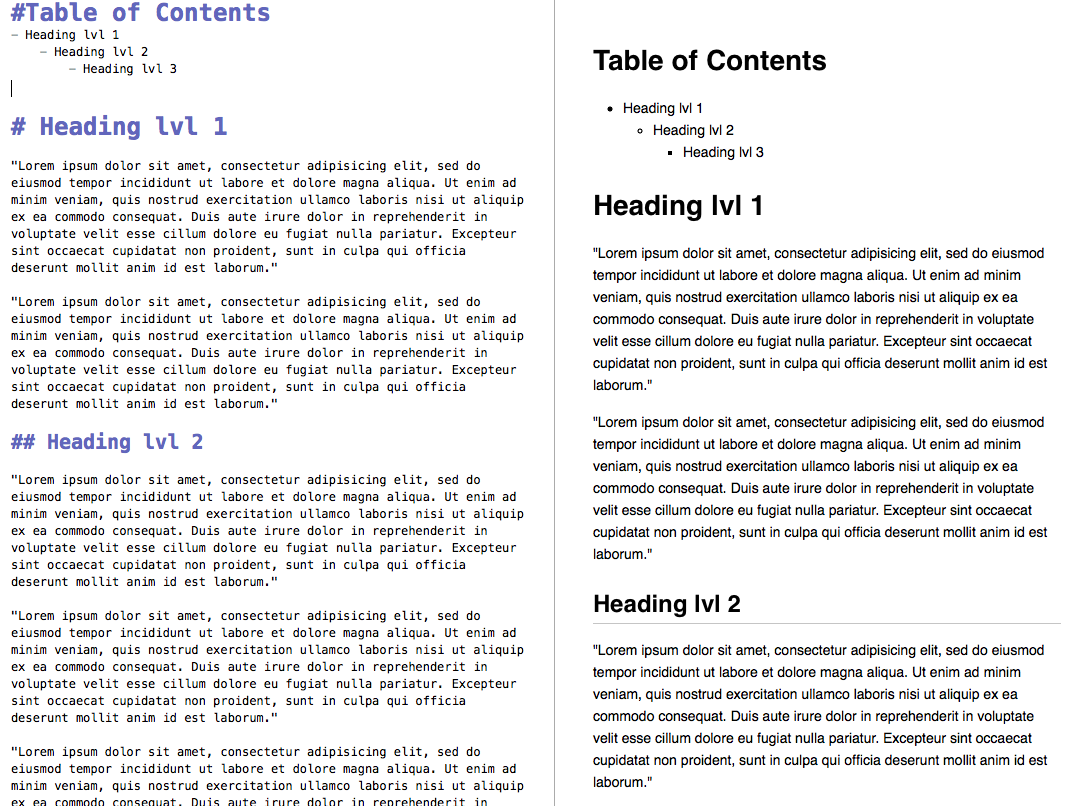
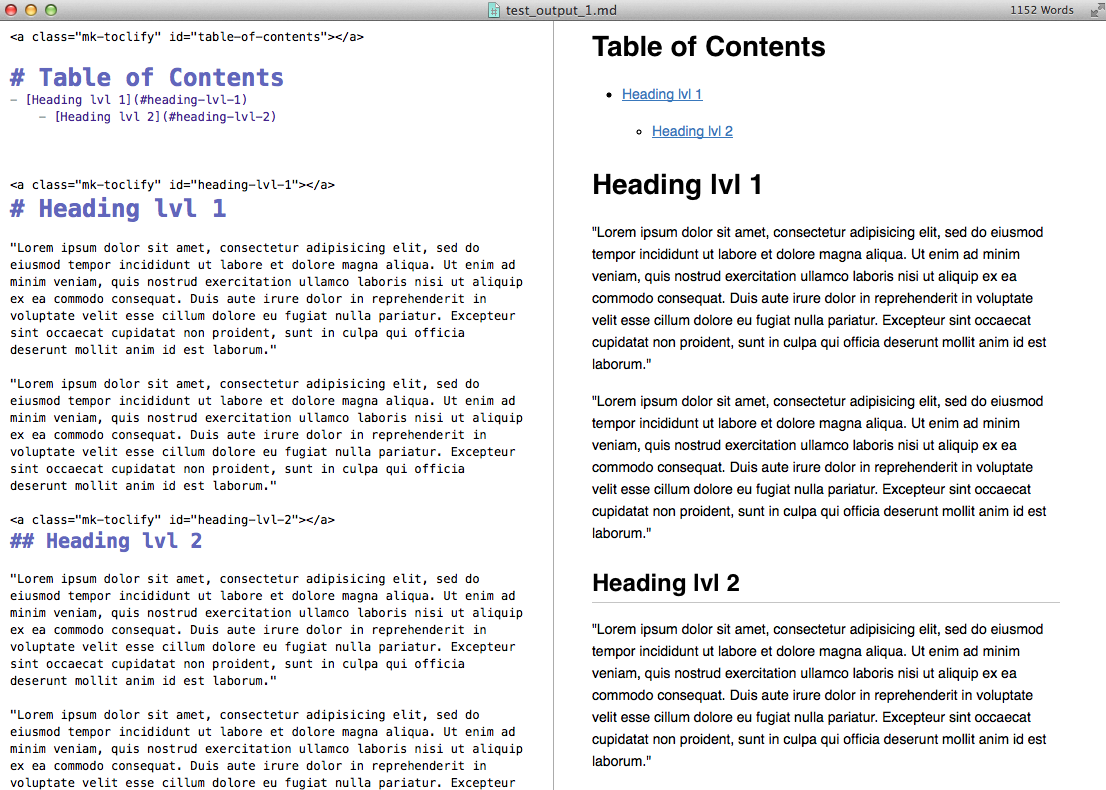
screenshot upd

diff --git a/example_markdown/test_output_2.md b/example_markdown/test_output_2.md
@@ -1,27 +1,20 @@
-<a id="table-of-contents"></a>
+<a class="mk-toclify" id="table-of-contents"></a>
 
-#Table of Contents
-- [Heading lvl 1](#Heading-lvl-1)
-    - [Heading lvl 2](#Heading-lvl-2)
-        - [Heading lvl 3](#Heading-lvl-3)
-
-<div style="height:100px;"></div>
+# Table of Contents
+- [Heading lvl 1](#heading-lvl-1)
+    - [Heading lvl 2](#heading-lvl-2)
 
 
 
-
-
-<a id="Heading-lvl-1"></a>
+<a class="mk-toclify" id="heading-lvl-1"></a>
 # Heading lvl 1
-[[back to top](#table-of-contents)]
 
 "Lorem ipsum dolor sit amet, consectetur adipisicing elit, sed do eiusmod tempor incididunt ut labore et dolore magna aliqua. Ut enim ad minim veniam, quis nostrud exercitation ullamco laboris nisi ut aliquip ex ea commodo consequat. Duis aute irure dolor in reprehenderit in voluptate velit esse cillum dolore eu fugiat nulla pariatur. Excepteur sint occaecat cupidatat non proident, sunt in culpa qui officia deserunt mollit anim id est laborum."
 
 "Lorem ipsum dolor sit amet, consectetur adipisicing elit, sed do eiusmod tempor incididunt ut labore et dolore magna aliqua. Ut enim ad minim veniam, quis nostrud exercitation ullamco laboris nisi ut aliquip ex ea commodo consequat. Duis aute irure dolor in reprehenderit in voluptate velit esse cillum dolore eu fugiat nulla pariatur. Excepteur sint occaecat cupidatat non proident, sunt in culpa qui officia deserunt mollit anim id est laborum."
 
-<a id="Heading-lvl-2"></a>
+<a class="mk-toclify" id="heading-lvl-2"></a>
 ## Heading lvl 2
-[[back to top](#table-of-contents)]
 
 "Lorem ipsum dolor sit amet, consectetur adipisicing elit, sed do eiusmod tempor incididunt ut labore et dolore magna aliqua. Ut enim ad minim veniam, quis nostrud exercitation ullamco laboris nisi ut aliquip ex ea commodo consequat. Duis aute irure dolor in reprehenderit in voluptate velit esse cillum dolore eu fugiat nulla pariatur. Excepteur sint occaecat cupidatat non proident, sunt in culpa qui officia deserunt mollit anim id est laborum."
 
@@ -44,9 +37,6 @@
 
 "Lorem ipsum dolor sit amet, consectetur adipisicing elit, sed do eiusmod tempor incididunt ut labore et dolore magna aliqua. Ut enim ad minim veniam, quis nostrud exercitation ullamco laboris nisi ut aliquip ex ea commodo consequat. Duis aute irure dolor in reprehenderit in voluptate velit esse cillum dolore eu fugiat nulla pariatur. Excepteur sint occaecat cupidatat non proident, sunt in culpa qui officia deserunt mollit anim id est laborum."
 
-<a id="Heading-lvl-3"></a>
-###Heading lvl 3
-[[back to top](#table-of-contents)]
 
 "Lorem ipsum dolor sit amet, consectetur adipisicing elit, sed do eiusmod tempor incididunt ut labore et dolore magna aliqua. Ut enim ad minim veniam, quis nostrud exercitation ullamco laboris nisi ut aliquip ex ea commodo consequat. Duis aute irure dolor in reprehenderit in voluptate velit esse cillum dolore eu fugiat nulla pariatur. Excepteur sint occaecat cupidatat non proident, sunt in culpa qui officia deserunt mollit anim id est laborum."
 "Lorem ipsum dolor sit amet, consectetur adipisicing elit, sed do eiusmod tempor incididunt ut labore et dolore magna aliqua. Ut enim ad minim veniam, quis nostrud exercitation ullamco laboris nisi ut aliquip ex ea commodo consequat. Duis aute irure dolor in reprehenderit in voluptate velit esse cillum dolore eu fugiat nulla pariatur. Excepteur sint occaecat cupidatat non proident, sunt in culpa qui officia deserunt mollit anim id est laborum."

diff --git a/example_markdown/test_output_1.md b/example_markdown/test_output_1.md
@@ -1,20 +1,19 @@
-#Table of Contents
-- [Heading lvl 1](#Heading-lvl-1)
-    - [Heading lvl 2](#Heading-lvl-2)
-        - [Heading lvl 3](#Heading-lvl-3)
+<a class="mk-toclify" id="table-of-contents"></a>
+
+# Table of Contents
+- [Heading lvl 1](#heading-lvl-1)
+    - [Heading lvl 2](#heading-lvl-2)
 
 
 
-
-
-<a id="Heading-lvl-1"></a>
+<a class="mk-toclify" id="heading-lvl-1"></a>
 # Heading lvl 1
 
 "Lorem ipsum dolor sit amet, consectetur adipisicing elit, sed do eiusmod tempor incididunt ut labore et dolore magna aliqua. Ut enim ad minim veniam, quis nostrud exercitation ullamco laboris nisi ut aliquip ex ea commodo consequat. Duis aute irure dolor in reprehenderit in voluptate velit esse cillum dolore eu fugiat nulla pariatur. Excepteur sint occaecat cupidatat non proident, sunt in culpa qui officia deserunt mollit anim id est laborum."
 
 "Lorem ipsum dolor sit amet, consectetur adipisicing elit, sed do eiusmod tempor incididunt ut labore et dolore magna aliqua. Ut enim ad minim veniam, quis nostrud exercitation ullamco laboris nisi ut aliquip ex ea commodo consequat. Duis aute irure dolor in reprehenderit in voluptate velit esse cillum dolore eu fugiat nulla pariatur. Excepteur sint occaecat cupidatat non proident, sunt in culpa qui officia deserunt mollit anim id est laborum."
 
-<a id="Heading-lvl-2"></a>
+<a class="mk-toclify" id="heading-lvl-2"></a>
 ## Heading lvl 2
 
 "Lorem ipsum dolor sit amet, consectetur adipisicing elit, sed do eiusmod tempor incididunt ut labore et dolore magna aliqua. Ut enim ad minim veniam, quis nostrud exercitation ullamco laboris nisi ut aliquip ex ea commodo consequat. Duis aute irure dolor in reprehenderit in voluptate velit esse cillum dolore eu fugiat nulla pariatur. Excepteur sint occaecat cupidatat non proident, sunt in culpa qui officia deserunt mollit anim id est laborum."
@@ -38,8 +37,6 @@
 
 "Lorem ipsum dolor sit amet, consectetur adipisicing elit, sed do eiusmod tempor incididunt ut labore et dolore magna aliqua. Ut enim ad minim veniam, quis nostrud exercitation ullamco laboris nisi ut aliquip ex ea commodo consequat. Duis aute irure dolor in reprehenderit in voluptate velit esse cillum dolore eu fugiat nulla pariatur. Excepteur sint occaecat cupidatat non proident, sunt in culpa qui officia deserunt mollit anim id est laborum."
 
-<a id="Heading-lvl-3"></a>
-###Heading lvl 3
 
 "Lorem ipsum dolor sit amet, consectetur adipisicing elit, sed do eiusmod tempor incididunt ut labore et dolore magna aliqua. Ut enim ad minim veniam, quis nostrud exercitation ullamco laboris nisi ut aliquip ex ea commodo consequat. Duis aute irure dolor in reprehenderit in voluptate velit esse cillum dolore eu fugiat nulla pariatur. Excepteur sint occaecat cupidatat non proident, sunt in culpa qui officia deserunt mollit anim id est laborum."
 "Lorem ipsum dolor sit amet, consectetur adipisicing elit, sed do eiusmod tempor incididunt ut labore et dolore magna aliqua. Ut enim ad minim veniam, quis nostrud exercitation ullamco laboris nisi ut aliquip ex ea commodo consequat. Duis aute irure dolor in reprehenderit in voluptate velit esse cillum dolore eu fugiat nulla pariatur. Excepteur sint occaecat cupidatat non proident, sunt in culpa qui officia deserunt mollit anim id est laborum."

diff --git a/README.md b/README.md
@@ -3,6 +3,8 @@ markdown-toclify
 
 markdown_toclify.py is a Python command line script that adds a **Table of Contents** with internal section-links to Markdown documents.
 
+**Compatible with [Standard Markdown](http://standardmarkdown.com).**
+
 
 <hr>
 
